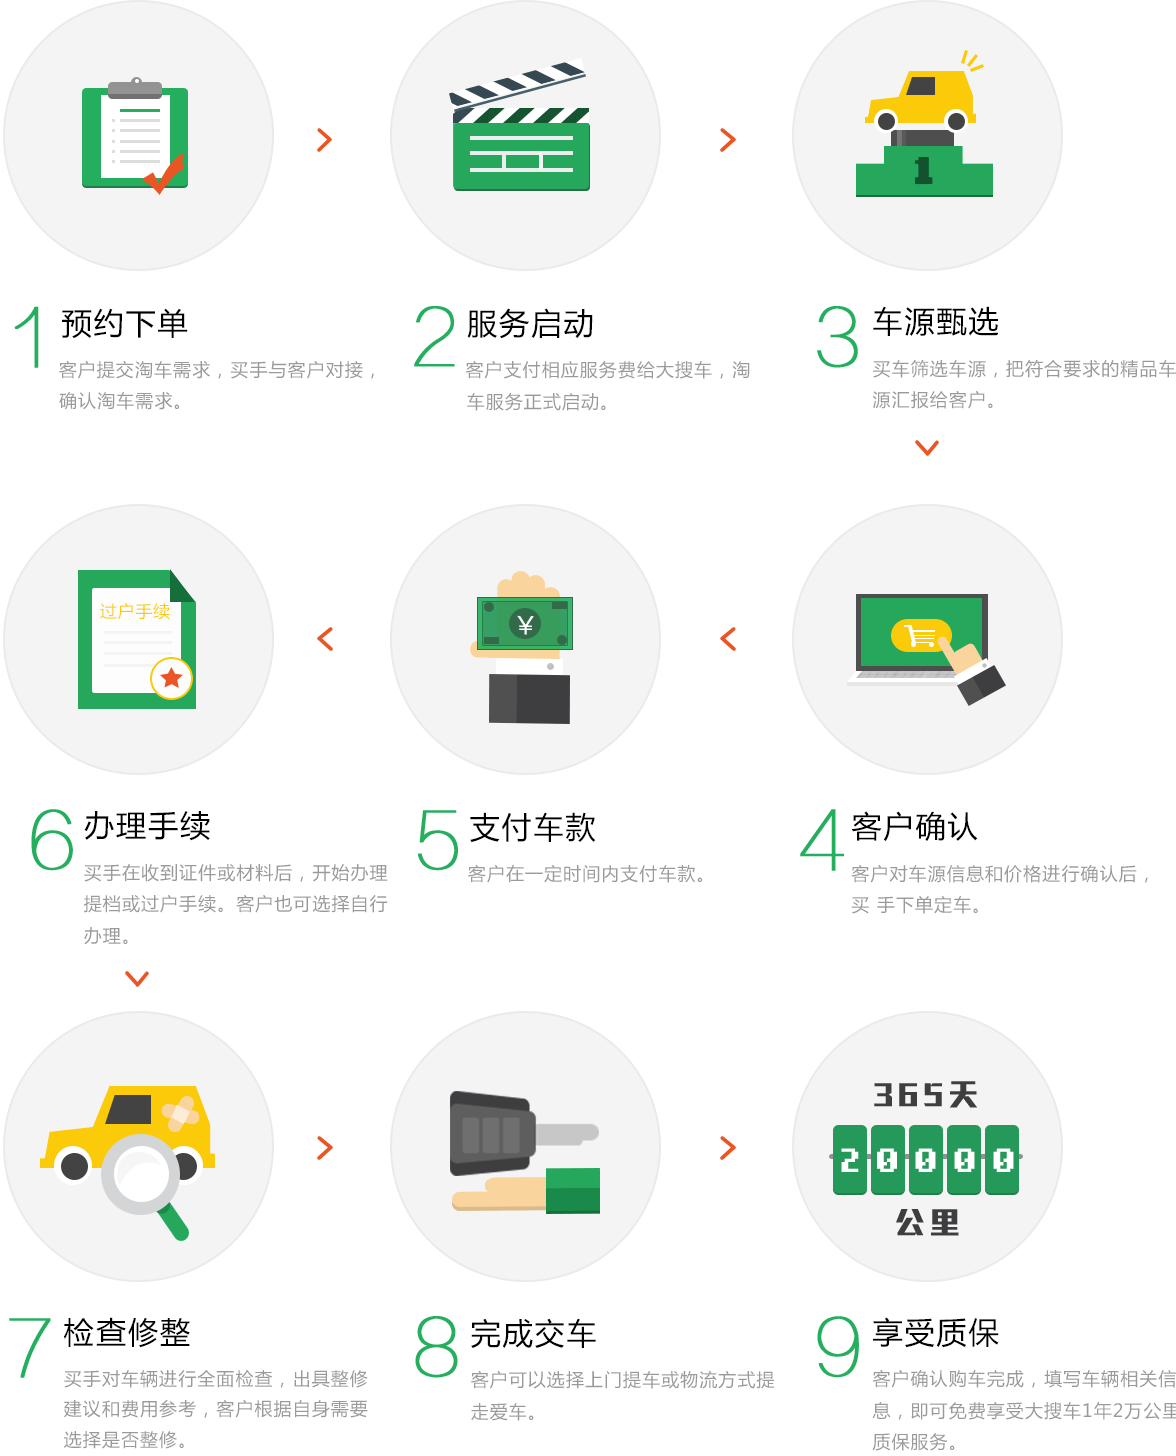
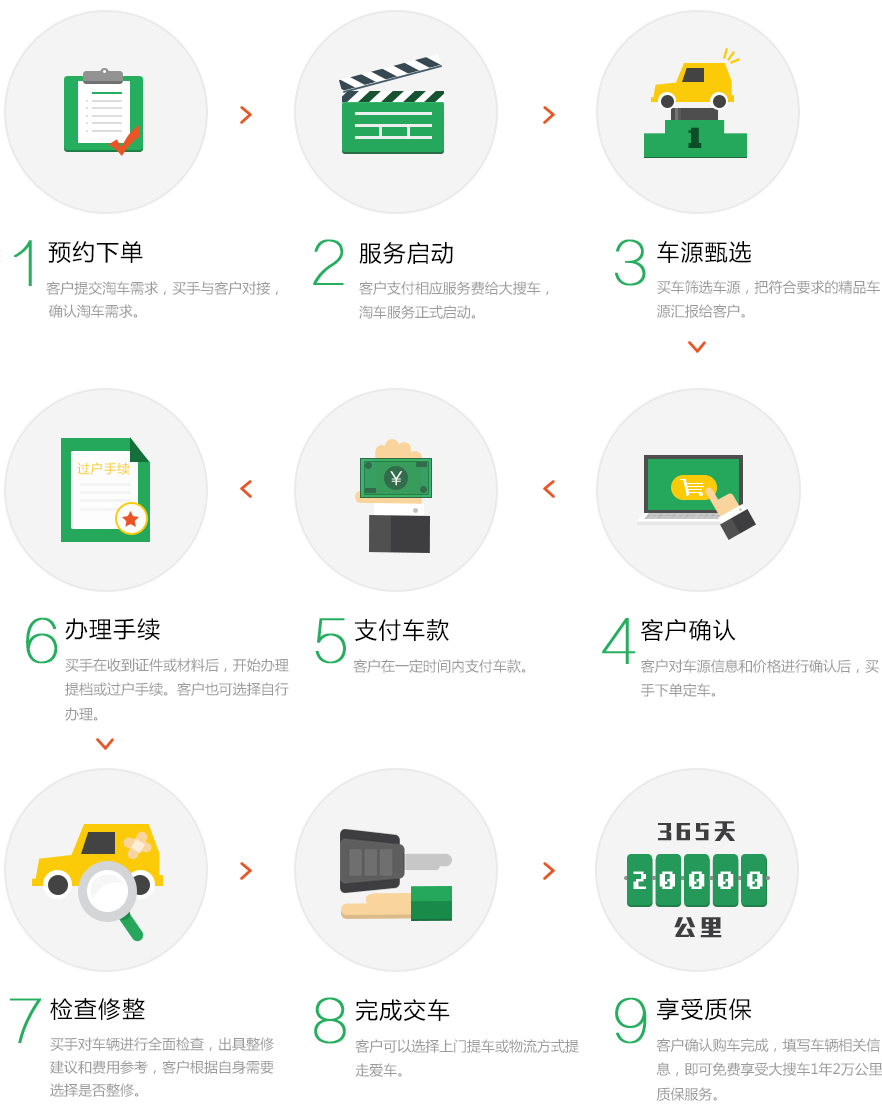
buyer

diff --git a/assets/css/buyer.less b/assets/css/buyer.less
@@ -12,11 +12,11 @@
       z-index: 100000;
     }
     .banner{
-      background: url(../images/pc/banner.png) no-repeat;
+      background: url(../images/pc/banner.png?123) no-repeat;
       background-position: center;
-      height: 1015px;
+      height: 913px;
       .banner-cont{
-        width: 1280px;
+        width: 980px;
         margin: 0 auto;
         position: relative;
         height: 1015px;
@@ -39,33 +39,34 @@
           }
         }
         .what-buyer{
-          width: 1024px;
-          height: 257px;
-          background: url(../images/pc/what-buyer.png) no-repeat;
+          width: 893px;
+          height: 206px;
+          background: url(../images/pc/what-buyer.png?123) no-repeat;
           position: absolute;
-          bottom: 150px;
-          left: 100px;
-          padding-top: 80px;
+          bottom: 230px;
+          left: 0px;
+          padding-top: 60px;
           padding-right: 40px;
           .cont{
-            width: 890px;
+            width: 790px;
             margin: 0 auto;
 
             h1{
-              font-size: 40px;
+              font-size: 30px;
               color: #ea5525;
-
+              margin-bottom: 10px;
               font-weight: bold;
             }
             .buyer-ex{
-              line-height: 35px;
+              line-height: 25px;
+              margin-bottom: 10px;
               span{
-                font-size: 22px;
+                font-size: 17px;
                 color: #000;
               }
               em{
                 color: #ea5525;
-                font-size: 22px;
+                font-size: 17px;
                 margin: 10px;
                 font-weight: bold;
               }
@@ -111,18 +112,18 @@
         .title{
           width: 380px;
           i{
-            background: url(../images/pc/reason.png) no-repeat;
+            background: url(../images/pc/reason.png?123) no-repeat;
             width: 56px;
             height: 51px;
 
           }
         }
         .reason-box{
-          width: 1120px;
+          width: 980px;
           margin: 0 auto;
           .reason-item{
-            width: 224px;
-            height: 260px;
+            width: 190px;
+            height: 250px;
             border: 4px solid #ea5525;
             border-radius: 10px;
             padding: 15px;
@@ -160,7 +161,7 @@
           }
         }
         .recom-box{
-          width: 1120px;
+          width: 980px;
           margin: 0 auto;
           position: relative;
           min-height: 435px;
@@ -169,8 +170,9 @@
             width: 182px;
             height: 435px;
             background: url(../images/pc/recom-man.png) no-repeat;
-            right: -40px;
+            right: -115px;
             bottom: 0px;
+            z-index: 100;
           }
           .recom-item{
             margin-bottom: 30px;
@@ -321,7 +323,7 @@
           width: 191px;
           height: 191px;
           position: absolute;
-          background: url(../images/pc/deal.png) no-repeat;
+          background: url(../images/pc/deal.png?123) no-repeat;
           top: 275px;
           right: 75px;
         }
@@ -369,7 +371,7 @@
     }
     .buyer-flow{
       background: #fff;
-      width: 1280px;
+      width: 882px;
       margin: 0 auto;
       padding: 100px 0;
       .title{
@@ -384,9 +386,9 @@
         padding-bottom: 50px;
       }
       .liucheng-pic{
-        background: url(../images/pc/liucheng.png) no-repeat;
-        width: 1176px;
-        height: 1456px;
+        background: url(../images/pc/liucheng.png?123) no-repeat;
+        width: 882px;
+        height: 1110px;
         margin: 0 auto;
       }
     }
@@ -394,7 +396,7 @@
       background: #fdfdfd;
       padding-top: 100px;
       .qa-box{
-        width: 1160px;
+        width: 980px;
         margin: 0 auto;
         .title{
           font-size: 28px;

diff --git a/assets/css/detail/less/report/report-summary.less b/assets/css/detail/less/report/report-summary.less
@@ -72,7 +72,7 @@
     .card-trans{
       -webkit-transform: rotateY(180deg) !important;
       .card-rule{
-        z-index: 20;
+        z-index: 20!important;
       }
     }
     .look-rule{
